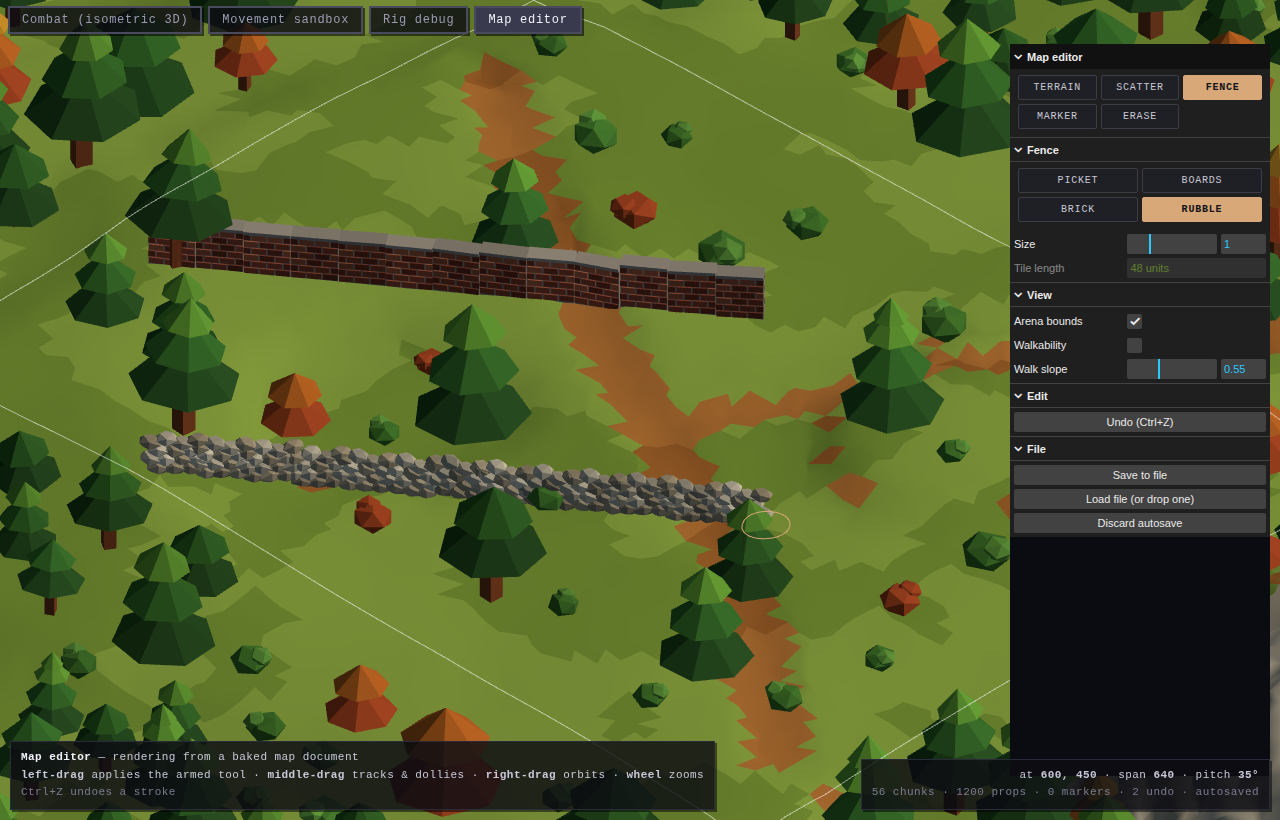
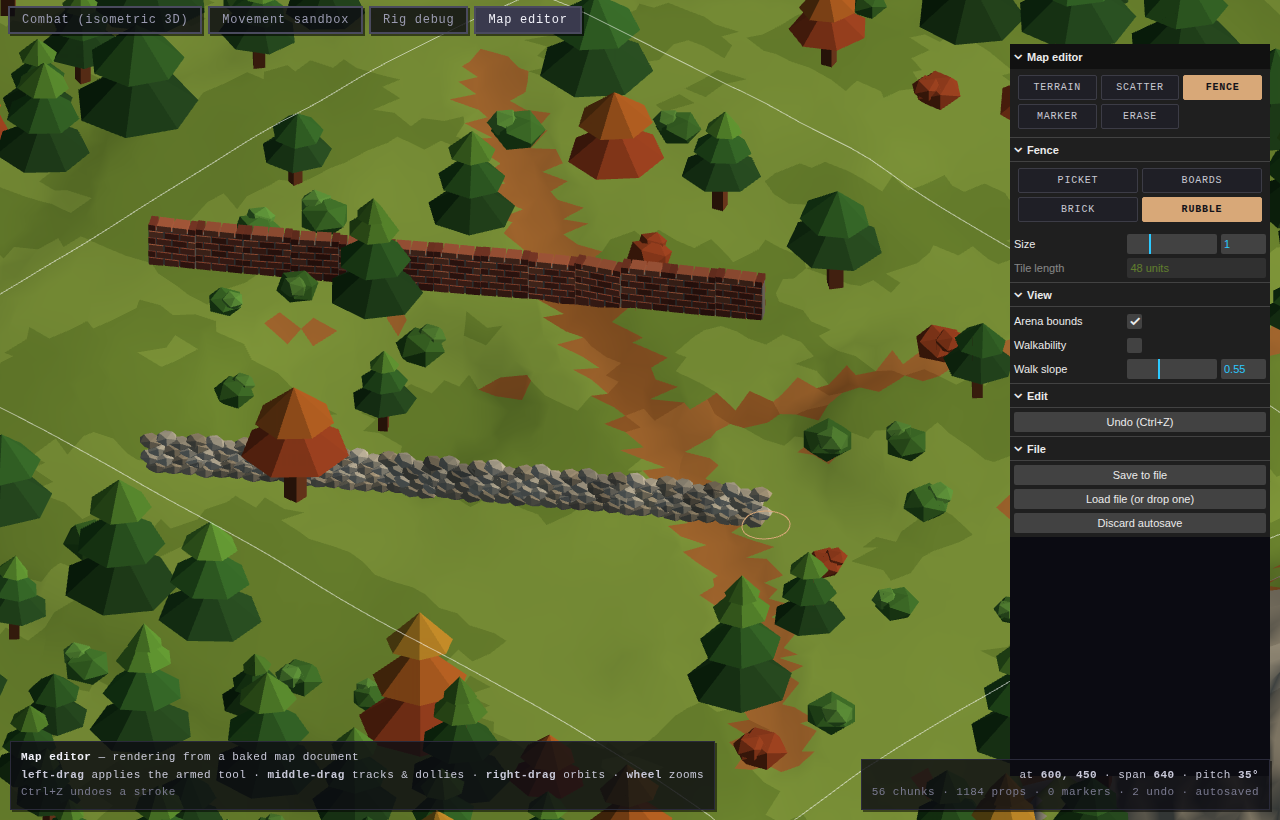
props: cap the brick wall with brick, not a stone sill
The coping was doing a real job -- covering the mortar core's top, which the
camera looks straight down on -- so deleting it would have swapped a grey sill
for a grey stripe. The top course is laid *across* the wall instead: full-depth
bricks, wider than the core, so what caps the wall is more brick.

The bottom course gets the same treatment for the same reason, running down past
the ground rather than stopping at a joint, so the wall meets the earth as brick
and keeps doing so where a run steps down a slope. Mortar now shows only in the
joints and in the cut end of a run, and is darker than the brick around it so a
joint reads as shadow rather than as a pale line drawn over the wall.

Claude-Session: https://claude.ai/code/session_01C5TuKdvXBhqu7FBqkGPz6i

diff --git a/src/render/iso3d/props.ts b/src/render/iso3d/props.ts
@@ -389,6 +389,11 @@ function woodFenceParts(): PropPart[] {
  * sides in six courses -- so the wall is solid by construction and the joints are
  * recesses between bricks rather than gaps through to the far side.
  *
+ * The **top course is laid across the wall** rather than on its faces: full-depth
+ * bricks, wider than the core, so what you see from above is brick and not the
+ * core's grey top. A wall of face bricks alone has to be capped by something, and
+ * the something should be more brick.
+ *
  * **The bond carries across a tile boundary.** Even courses hold three whole
  * bricks; odd courses hold two whole bricks and a *half* at each end, so the half
  * at this tile's edge and the half at its neighbour's meet to make one brick with
@@ -479,18 +484,33 @@ export function brickCourse(course: number): readonly (readonly [number, number]
 }
 
 function brickFenceParts(): PropPart[] {
-  const height = BRICK_COURSES * BRICK_PITCH;
   const brickHeight = BRICK_PITCH - BRICK_JOINT;
   const faceZ = BRICK_CORE_DEPTH / 2 + BRICK_PROUD / 2;
+  const wallDepth = BRICK_CORE_DEPTH + 2 * BRICK_PROUD;
+  // Where the capping course starts, and so where the core stops: the core is
+  // narrower than the cap, so ending it here leaves nothing of it in view from
+  // above except the joints between cap bricks -- which is where mortar belongs.
+  const capBottom = (BRICK_COURSES - 1) * BRICK_PITCH + BRICK_JOINT / 2;
   // One list of boxes per colour band; which band a brick joins is hashed from
   // where it sits, so the mottling is fixed rather than drawn afresh.
   const bands: Box[][] = BRICK_TONES.map(() => []);
   for (let course = 0; course < BRICK_COURSES; course++) {
-    const y = course * BRICK_PITCH + brickHeight / 2 + BRICK_JOINT / 2;
+    const top = course * BRICK_PITCH + BRICK_JOINT / 2 + brickHeight;
+    // The bottom course runs down past the ground instead of stopping at a
+    // joint, so the wall meets the earth as brick rather than as a pale strip of
+    // core -- and keeps meeting it as brick where a run steps down a slope.
+    const bottom = course === 0 ? -FENCE_SINK : top - brickHeight;
+    const y = (top + bottom) / 2;
+    const h = top - bottom;
+    const capping = course === BRICK_COURSES - 1;
     brickCourse(course).forEach(([x, run], i) => {
       const band = Math.floor(hashUnit2(course, i * 7 + 1, HASH_BRICK) * BRICK_TONES.length) % BRICK_TONES.length;
+      if (capping) {
+        (bands[band] as Box[]).push({ x, y, z: 0, w: run, h, d: wallDepth });
+        return;
+      }
       for (const z of [faceZ, -faceZ]) {
-        (bands[band] as Box[]).push({ x, y, z, w: run, h: brickHeight, d: BRICK_PROUD });
+        (bands[band] as Box[]).push({ x, y, z, w: run, h, d: BRICK_PROUD });
       }
     });
   }
@@ -499,8 +519,8 @@ function brickFenceParts(): PropPart[] {
     {
       // The core: mortar seen only through the joints, and what makes the wall
       // solid rather than two rows of bricks with daylight between them.
-      geometry: new THREE.BoxGeometry(FENCE_TILE_LENGTH, height + FENCE_SINK, BRICK_CORE_DEPTH),
-      offsetY: (height - FENCE_SINK) / 2,
+      geometry: new THREE.BoxGeometry(FENCE_TILE_LENGTH, capBottom + FENCE_SINK, BRICK_CORE_DEPTH),
+      offsetY: (capBottom - FENCE_SINK) / 2,
       color: PALETTE.mortar,
       foliage: false,
       tintAmount: 0.08,
@@ -519,15 +539,6 @@ function brickFenceParts(): PropPart[] {
       tintAmount: 0.1,
       jitterTint: 0.05,
     });
-  });
-  // A flat coping over the top, wider than the wall, which is both what a garden
-  // wall has and what stops the top course reading as a cut edge.
-  parts.push({
-    geometry: new THREE.BoxGeometry(FENCE_TILE_LENGTH, 3.5, BRICK_CORE_DEPTH + 2 * BRICK_PROUD + 3),
-    offsetY: height + 1.75,
-    color: PALETTE.mortar,
-    foliage: false,
-    tintAmount: 0.08,
   });
   return parts;
 }

diff --git a/src/render/iso3d/palette.ts b/src/render/iso3d/palette.ts
@@ -79,7 +79,9 @@ export const PALETTE = {
   brick: 0xa8543c,
   brickDark: 0x8c4331,
   brickPale: 0xc06a4a,
-  mortar: 0xa9a196,
+  // Darker than the brick around it, so a joint reads as a shadow between
+  // bricks rather than as a pale line drawn over them.
+  mortar: 0x8e857a,
 } as const;
 
 /**

diff --git a/specs/058-brick-wall-replaces-courses.md b/specs/058-brick-wall-replaces-courses.md
@@ -31,6 +31,13 @@ The deliberate opposite of rubble. Where that one is sized so irregular stones
 still overlap, brick is laid: a mortar core spanning the tile, with brick faces
 standing proud of it on both sides, in six courses of pitch 8.
 
+**Nothing but brick is visible from outside.** The top course is laid *across*
+the wall -- full-depth bricks, wider than the core -- so what caps the wall is
+more brick rather than the core's grey top, and the bottom course runs down past
+the ground rather than stopping at a joint, so the wall meets the earth as brick
+too. Mortar shows only where mortar belongs: in the joints, and in the
+cross-section at the cut end of a run.
+
 **Running bond, carried across tile boundaries.** Even courses hold three whole
 bricks; odd courses hold two whole bricks and a *half* brick at each end, so the
 half at one tile's edge and the half at its neighbour's meet to form one whole
